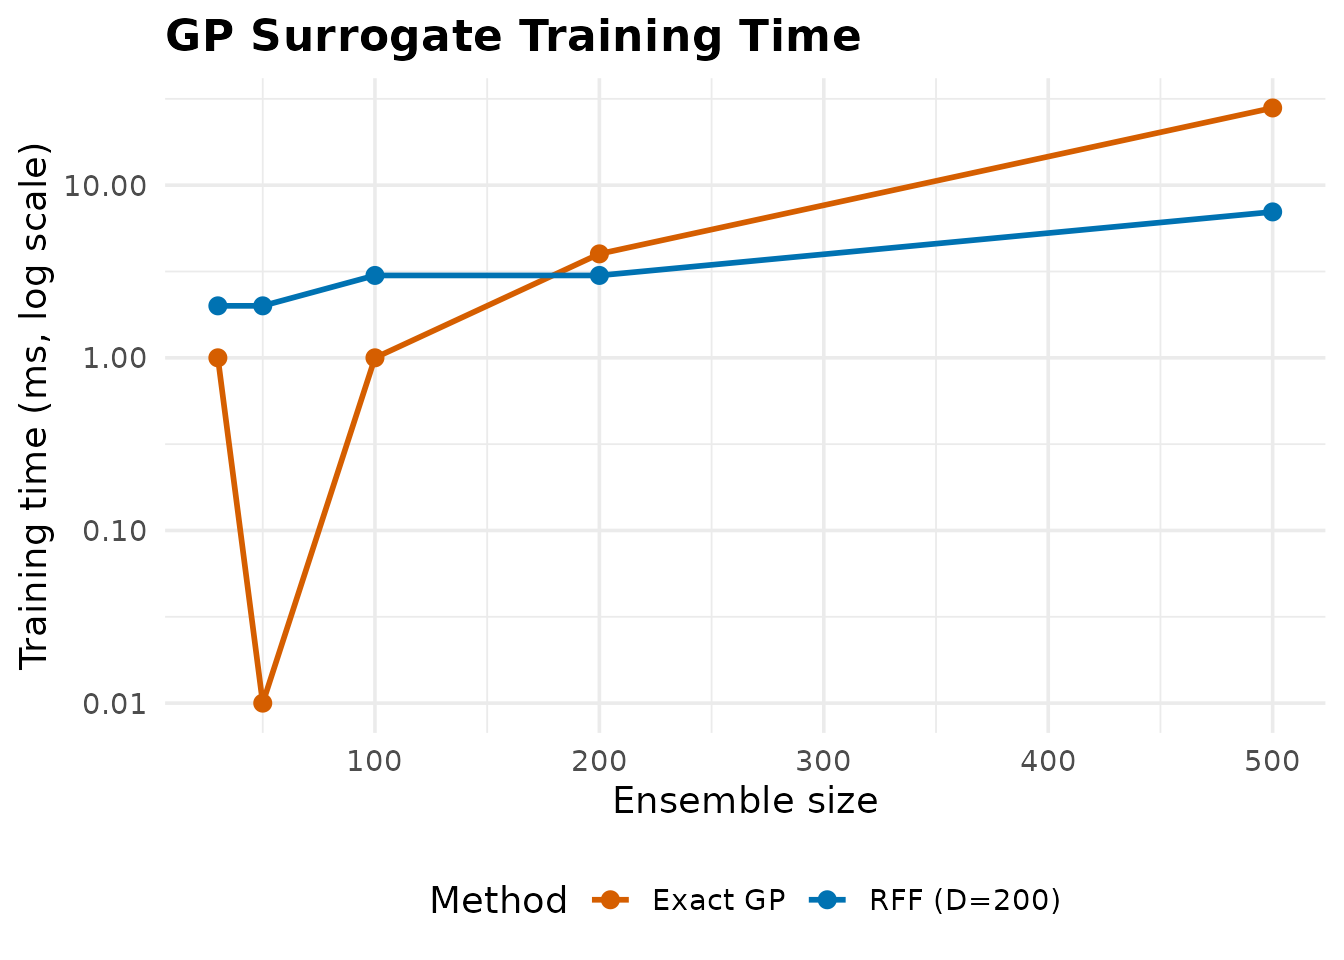
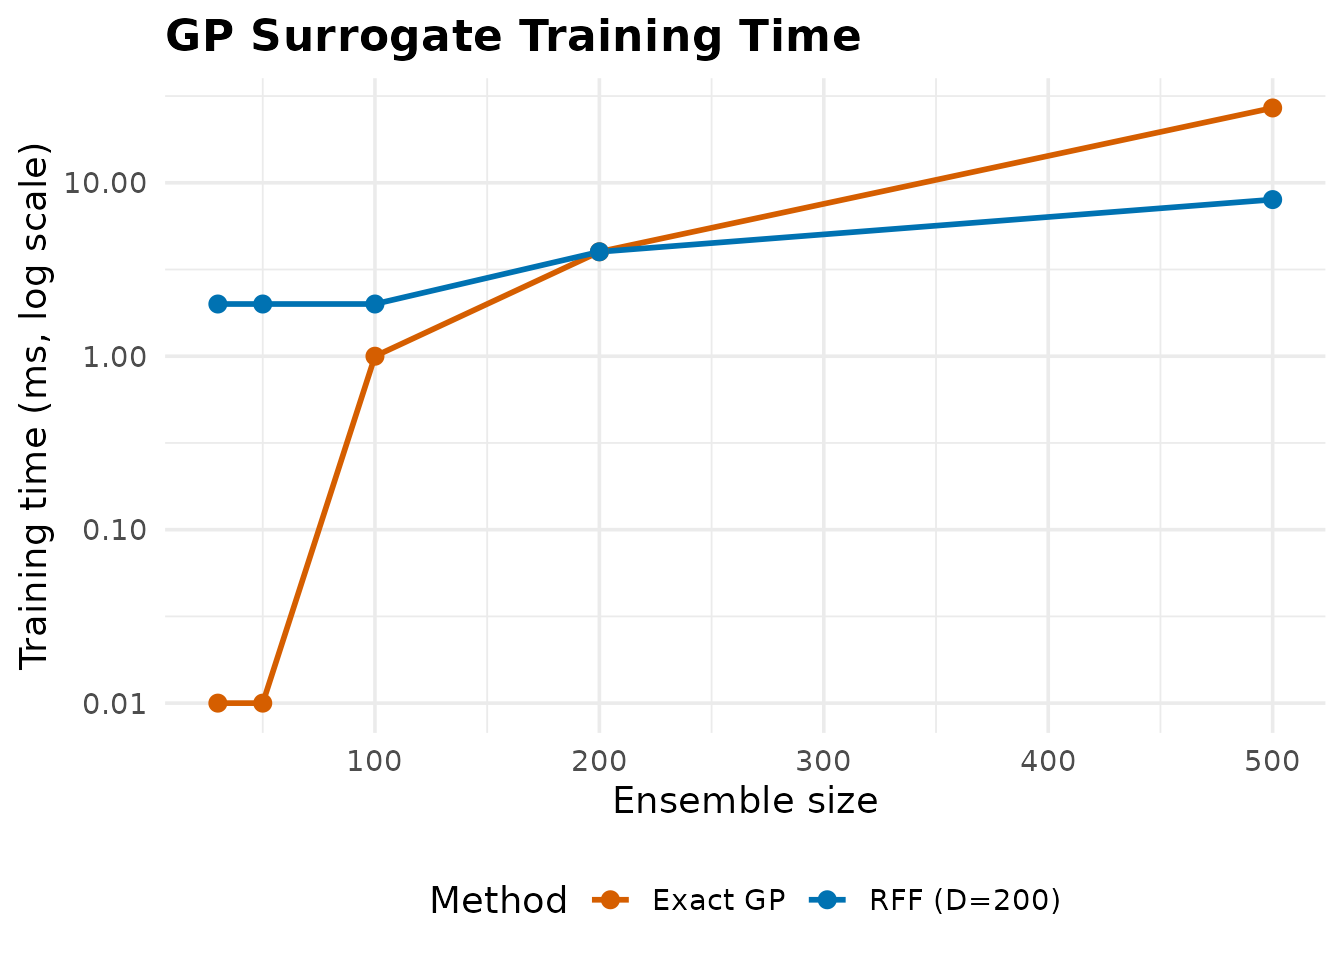
Deploying to gh-pages from @ max578/PESTO@7ccc674a539be3ea10d38143bee1905883ac77ff 🚀

diff --git a/articles/pestpp-comparison-and-simulation.html b/articles/pestpp-comparison-and-simulation.html
@@ -1246,7 +1246,7 @@ to a 2-D confined aquifer.</p>
 <span><span class="op">)</span></span>
 <span><span class="fu"><a href="https://rdrr.io/r/base/cat.html" class="external-link">cat</a></span><span class="op">(</span><span class="fu"><a href="https://rdrr.io/r/base/sprintf.html" class="external-link">sprintf</a></span><span class="op">(</span><span class="st">"Scenario B: %d iter, %d real, %d par, %d obs in %.2fs\n"</span>,</span>
 <span>            <span class="va">n_iter_B</span>, <span class="va">n_real_B</span>, <span class="va">n_par_B</span>, <span class="va">n_obs_B</span>, <span class="va">runtime_B</span><span class="op">)</span><span class="op">)</span></span>
-<span><span class="co">#&gt; Scenario B: 4 iter, 60 real, 100 par, 200 obs in 0.65s</span></span>
+<span><span class="co">#&gt; Scenario B: 4 iter, 60 real, 100 par, 200 obs in 0.66s</span></span>
 <span><span class="fu"><a href="https://rdrr.io/r/base/cat.html" class="external-link">cat</a></span><span class="op">(</span><span class="fu"><a href="https://rdrr.io/r/base/sprintf.html" class="external-link">sprintf</a></span><span class="op">(</span><span class="st">"Phi reduction: %.2e -&gt; %.2e  (factor %.1f)\n"</span>,</span>
 <span>            <span class="va">phi_B</span><span class="op">[</span><span class="fl">1L</span><span class="op">]</span>, <span class="va">phi_B</span><span class="op">[</span><span class="fu"><a href="https://rdrr.io/r/base/length.html" class="external-link">length</a></span><span class="op">(</span><span class="va">phi_B</span><span class="op">)</span><span class="op">]</span>, <span class="va">phi_B</span><span class="op">[</span><span class="fl">1L</span><span class="op">]</span> <span class="op">/</span> <span class="va">phi_B</span><span class="op">[</span><span class="fu"><a href="https://rdrr.io/r/base/length.html" class="external-link">length</a></span><span class="op">(</span><span class="va">phi_B</span><span class="op">)</span><span class="op">]</span><span class="op">)</span><span class="op">)</span></span>
 <span><span class="co">#&gt; Phi reduction: 1.69e+03 -&gt; 3.51e+02  (factor 4.8)</span></span>
@@ -1376,32 +1376,32 @@ the dense LAPACK algorithm reclaims the lead.</p>
 <tbody>
 <tr class="odd">
 <td align="right">5</td>
-<td align="right">2.716</td>
-<td align="right">40.057</td>
-<td align="right">14.75</td>
+<td align="right">2.691</td>
+<td align="right">39.450</td>
+<td align="right">14.66</td>
 </tr>
 <tr class="even">
 <td align="right">20</td>
-<td align="right">5.846</td>
-<td align="right">39.704</td>
-<td align="right">6.79</td>
+<td align="right">5.865</td>
+<td align="right">39.970</td>
+<td align="right">6.81</td>
 </tr>
 <tr class="odd">
 <td align="right">50</td>
-<td align="right">10.197</td>
-<td align="right">39.223</td>
-<td align="right">3.85</td>
+<td align="right">10.173</td>
+<td align="right">39.256</td>
+<td align="right">3.86</td>
 </tr>
 <tr class="even">
 <td align="right">100</td>
-<td align="right">34.382</td>
-<td align="right">39.205</td>
-<td align="right">1.14</td>
+<td align="right">34.374</td>
+<td align="right">39.379</td>
+<td align="right">1.15</td>
 </tr>
 <tr class="odd">
 <td align="right">180</td>
-<td align="right">70.323</td>
-<td align="right">39.323</td>
+<td align="right">70.115</td>
+<td align="right">39.419</td>
 <td align="right">0.56</td>
 </tr>
 </tbody>
@@ -1413,7 +1413,7 @@ dispatch can be audited:</p>
 <span><span class="va">acc_res</span>  <span class="op">&lt;-</span> <span class="fu"><a href="../reference/accelerate_svd.html">accelerate_svd</a></span><span class="op">(</span><span class="va">A_bench</span>, thin <span class="op">=</span> <span class="cn">TRUE</span><span class="op">)</span></span>
 <span><span class="fu"><a href="https://rdrr.io/r/base/cat.html" class="external-link">cat</a></span><span class="op">(</span><span class="st">"auto chose:    "</span>, <span class="va">auto_res</span><span class="op">$</span><span class="va">method_used</span>,</span>
 <span>    <span class="st">" in "</span>, <span class="fu"><a href="https://rdrr.io/r/base/Round.html" class="external-link">round</a></span><span class="op">(</span><span class="va">auto_res</span><span class="op">$</span><span class="va">time_ms</span>, <span class="fl">2</span><span class="op">)</span>, <span class="st">"ms\n"</span>, sep <span class="op">=</span> <span class="st">""</span><span class="op">)</span></span>
-<span><span class="co">#&gt; auto chose:    rsvd (Halko-Martinsson-Tropp) in 5.9ms</span></span>
+<span><span class="co">#&gt; auto chose:    rsvd (Halko-Martinsson-Tropp) in 5.84ms</span></span>
 <span><span class="fu"><a href="https://rdrr.io/r/base/cat.html" class="external-link">cat</a></span><span class="op">(</span><span class="st">"LAPACK direct: "</span>, <span class="fu"><a href="https://rdrr.io/r/base/Round.html" class="external-link">round</a></span><span class="op">(</span><span class="fu"><a href="https://rdrr.io/r/base/length.html" class="external-link">length</a></span><span class="op">(</span><span class="va">acc_res</span><span class="op">$</span><span class="va">d</span><span class="op">)</span>, <span class="fl">0</span><span class="op">)</span>,</span>
 <span>    <span class="st">" singular values returned\n"</span>, sep <span class="op">=</span> <span class="st">""</span><span class="op">)</span></span>
 <span><span class="co">#&gt; LAPACK direct: 200 singular values returned</span></span>

diff --git a/articles/getting-started.html b/articles/getting-started.html
@@ -284,8 +284,8 @@ the computational heart of the package:</p>
 <span>  <span class="fu"><a href="https://rdrr.io/r/base/print.html" class="external-link">print</a></span><span class="op">(</span><span class="va">bench</span><span class="op">)</span></span>
 <span><span class="op">}</span></span>
 <span><span class="co">#&gt; Unit: microseconds</span></span>
-<span><span class="co">#&gt;       expr     min       lq     mean   median      uq     max neval</span></span>
-<span><span class="co">#&gt;  PESTO_cpp 428.408 430.3925 439.0586 434.6905 442.751 549.425   100</span></span></code></pre></div>
+<span><span class="co">#&gt;       expr     min      lq     mean  median      uq     max neval</span></span>
+<span><span class="co">#&gt;  PESTO_cpp 428.269 429.922 438.8013 433.894 442.811 549.795   100</span></span></code></pre></div>
 </div>
 <div class="section level2">
 <h2 id="computing-phi-objective-function">Computing Phi (Objective Function)<a class="anchor" aria-label="anchor" href="#computing-phi-objective-function"></a>
@@ -365,7 +365,7 @@ speedups:</p>
 <span><span class="fu"><a href="https://rdrr.io/r/base/cat.html" class="external-link">cat</a></span><span class="op">(</span><span class="st">"Method:"</span>, <span class="va">res_auto</span><span class="op">$</span><span class="va">method_used</span>, <span class="st">"\n"</span><span class="op">)</span></span>
 <span><span class="co">#&gt; Method: rsvd (Halko-Martinsson-Tropp)</span></span>
 <span><span class="fu"><a href="https://rdrr.io/r/base/cat.html" class="external-link">cat</a></span><span class="op">(</span><span class="st">"Time:"</span>, <span class="fu"><a href="https://rdrr.io/r/base/Round.html" class="external-link">round</a></span><span class="op">(</span><span class="va">res_auto</span><span class="op">$</span><span class="va">time_ms</span>, <span class="fl">2</span><span class="op">)</span>, <span class="st">"ms\n"</span><span class="op">)</span></span>
-<span><span class="co">#&gt; Time: 17.43 ms</span></span>
+<span><span class="co">#&gt; Time: 17.4 ms</span></span>
 <span><span class="fu"><a href="https://rdrr.io/r/base/cat.html" class="external-link">cat</a></span><span class="op">(</span><span class="st">"Singular values (top 5):"</span>, <span class="fu"><a href="https://rdrr.io/r/base/Round.html" class="external-link">round</a></span><span class="op">(</span><span class="va">res_auto</span><span class="op">$</span><span class="va">d</span><span class="op">[</span><span class="fl">1</span><span class="op">:</span><span class="fl">5</span><span class="op">]</span>, <span class="fl">3</span><span class="op">)</span>, <span class="st">"\n"</span><span class="op">)</span></span>
 <span><span class="co">#&gt; Singular values (top 5): 50.643 50.283 49.956 49.689 49.454</span></span>
 <span></span>
@@ -400,9 +400,9 @@ diagnostics:</p>
 <span><span class="fu"><a href="https://rdrr.io/r/base/cat.html" class="external-link">cat</a></span><span class="op">(</span><span class="st">"SVD method:"</span>, <span class="va">result</span><span class="op">$</span><span class="va">svd_method</span>, <span class="st">"\n"</span><span class="op">)</span></span>
 <span><span class="co">#&gt; SVD method: LAPACK (platform-optimised)</span></span>
 <span><span class="fu"><a href="https://rdrr.io/r/base/cat.html" class="external-link">cat</a></span><span class="op">(</span><span class="st">"SVD time:"</span>, <span class="fu"><a href="https://rdrr.io/r/base/Round.html" class="external-link">round</a></span><span class="op">(</span><span class="va">result</span><span class="op">$</span><span class="va">svd_time_ms</span>, <span class="fl">2</span><span class="op">)</span>, <span class="st">"ms\n"</span><span class="op">)</span></span>
-<span><span class="co">#&gt; SVD time: 2.03 ms</span></span>
+<span><span class="co">#&gt; SVD time: 2.21 ms</span></span>
 <span><span class="fu"><a href="https://rdrr.io/r/base/cat.html" class="external-link">cat</a></span><span class="op">(</span><span class="st">"Total time:"</span>, <span class="fu"><a href="https://rdrr.io/r/base/Round.html" class="external-link">round</a></span><span class="op">(</span><span class="va">result</span><span class="op">$</span><span class="va">total_time_ms</span>, <span class="fl">2</span><span class="op">)</span>, <span class="st">"ms\n"</span><span class="op">)</span></span>
-<span><span class="co">#&gt; Total time: 2.46 ms</span></span>
+<span><span class="co">#&gt; Total time: 2.62 ms</span></span>
 <span><span class="fu"><a href="https://rdrr.io/r/base/cat.html" class="external-link">cat</a></span><span class="op">(</span><span class="st">"Singular values used:"</span>, <span class="va">result</span><span class="op">$</span><span class="va">singular_values_used</span>, <span class="st">"\n"</span><span class="op">)</span></span>
 <span><span class="co">#&gt; Singular values used: 50</span></span></code></pre></div>
 </div>

diff --git a/articles/ensemble-manifest.html b/articles/ensemble-manifest.html
@@ -117,17 +117,17 @@ guarantees, on every run.</p>
 <span>                 apsim_version <span class="op">=</span> <span class="cn">NA_character_</span><span class="op">)</span></span>
 <span><span class="fu"><a href="https://rdrr.io/r/base/print.html" class="external-link">print</a></span><span class="op">(</span><span class="va">m</span><span class="op">)</span></span>
 <span><span class="co">#&gt; &lt;pesto_ensemble_manifest&gt; schema 1.1.0</span></span>
-<span><span class="co">#&gt;   run_id        : ies_callback_20260628_040559_fe6542df</span></span>
+<span><span class="co">#&gt;   run_id        : ies_callback_20260628_075120_fe6542df</span></span>
 <span><span class="co">#&gt;   method        : ies_callback  (noptmax=4)</span></span>
 <span><span class="co">#&gt;   ensemble      : 60 realisations x 3 parameters | 6 observations</span></span>
 <span><span class="co">#&gt;   failure rate  : 0.00%</span></span>
 <span><span class="co">#&gt;   pesto version : 0.8.0.9000  apsim: NA</span></span>
-<span><span class="co">#&gt;   timestamp     : 2026-06-28T04:05:59+0000</span></span>
+<span><span class="co">#&gt;   timestamp     : 2026-06-28T07:51:20+0000</span></span>
 <span><span class="co">#&gt;   data hash     : sha256:e7b630ad06429b528fa6a57a4973894eb9bf2709a6a3ffeb01366ede48b78ed6</span></span></code></pre></div>
 <p>Slots are reachable via the standard S7 <code>@</code> accessor:</p>
 <div class="sourceCode" id="cb3"><pre class="downlit sourceCode r">
 <code class="sourceCode R"><span><span class="va">m</span><span class="op">@</span><span class="va">run_id</span></span>
-<span><span class="co">#&gt; [1] "ies_callback_20260628_040559_fe6542df"</span></span>
+<span><span class="co">#&gt; [1] "ies_callback_20260628_075120_fe6542df"</span></span>
 <span><span class="va">m</span><span class="op">@</span><span class="va">data_hash</span></span>
 <span><span class="co">#&gt; [1] "sha256:e7b630ad06429b528fa6a57a4973894eb9bf2709a6a3ffeb01366ede48b78ed6"</span></span>
 <span><span class="va">m</span><span class="op">@</span><span class="va">noptmax</span></span>
@@ -166,7 +166,7 @@ otherwise trip on formatter precision loss:</p>
 <code class="sourceCode R"><span><span class="fu"><a href="https://rdrr.io/r/base/cat.html" class="external-link">cat</a></span><span class="op">(</span><span class="fu"><a href="https://rdrr.io/r/base/paste.html" class="external-link">paste</a></span><span class="op">(</span><span class="fu"><a href="https://rdrr.io/r/base/readLines.html" class="external-link">readLines</a></span><span class="op">(</span><span class="fu"><a href="https://rdrr.io/r/base/file.path.html" class="external-link">file.path</a></span><span class="op">(</span><span class="va">dir</span>, <span class="st">"wagga_2026_run01.yaml"</span><span class="op">)</span><span class="op">)</span><span class="op">[</span><span class="fl">1</span><span class="op">:</span><span class="fl">14</span><span class="op">]</span>,</span>
 <span>          collapse <span class="op">=</span> <span class="st">"\n"</span><span class="op">)</span><span class="op">)</span></span>
 <span><span class="co">#&gt; schema_version: 1.1.0</span></span>
-<span><span class="co">#&gt; run_id: ies_callback_20260628_040559_fe6542df</span></span>
+<span><span class="co">#&gt; run_id: ies_callback_20260628_075120_fe6542df</span></span>
 <span><span class="co">#&gt; data_hash: sha256:e7b630ad06429b528fa6a57a4973894eb9bf2709a6a3ffeb01366ede48b78ed6</span></span>
 <span><span class="co">#&gt; format: rds</span></span>
 <span><span class="co">#&gt; integrity: verifiable</span></span>

diff --git a/index.html b/index.html
@@ -140,9 +140,12 @@
 <span>  <span class="st">"https://cloud.r-project.org"</span></span>
 <span><span class="op">)</span><span class="op">)</span></span></code></pre></div>
 <p>CRAN submission is in preparation.</p>
+<blockquote>
+<p><strong>Vignettes.</strong> GitHub source installs (<code>pak</code>, <code>install_github</code>) do not build vignettes by default, so <code>browseVignettes("PESTO")</code> will be empty. Install from r-universe (above) for pre-built vignettes, or add <code>build_vignettes = TRUE</code> to an <code>install_github()</code> call. All articles are also on the <a href="https://max578.github.io/PESTO/">package website</a>.</p>
+</blockquote>
 </div>
 <div class="section level2">
-<h2 id="ensemble-bayesian-inference-ies">Ensemble Bayesian inference (IES)<a class="anchor" aria-label="anchor" href="#ensemble-bayesian-inference-ies"></a>
+<h2 id="bayesian-inference-with-the-iterative-ensemble-smoother-ies">Bayesian inference with the Iterative Ensemble Smoother (IES)<a class="anchor" aria-label="anchor" href="#bayesian-inference-with-the-iterative-ensemble-smoother-ies"></a>
 </h2>
 <p>PESTO performs approximate Bayesian inference for parameter estimation. You specify a <strong>prior as a parameter ensemble</strong> – a matrix of draws encoding your prior belief about each parameter (rows are realisations, columns are parameters) – together with the observations and their error standard deviation. PESTO conditions the ensemble on the observations through the IES update and returns an approximate <strong>posterior ensemble</strong> with uncertainty diagnostics. Any R function mapping a parameter matrix to an observation matrix can be the forward model.</p>
 <div class="sourceCode" id="cb2"><pre class="downlit sourceCode r">
@@ -167,7 +170,7 @@
 <p>Optional convergence-based early stopping (<code>phi_tol</code>), covariance inflation (<code><a href="reference/pesto_inflation.html">pesto_inflation()</a></code>), and localisation (<code><a href="reference/pesto_localisation.html">pesto_localisation()</a></code>) are documented in <code><a href="reference/pesto_ies_callback.html">?pesto_ies_callback</a></code> and the <em>Getting started</em> vignette.</p>
 </div>
 <div class="section level2">
-<h2 id="coupling-to-a-simulator-apsim">Coupling to a simulator (APSIM)<a class="anchor" aria-label="anchor" href="#coupling-to-a-simulator-apsim"></a>
+<h2 id="coupling-to-apsim-and-other-simulators">Coupling to APSIM and other simulators<a class="anchor" aria-label="anchor" href="#coupling-to-apsim-and-other-simulators"></a>
 </h2>
 <p>The forward model above is a plain R function. To calibrate a process-based simulator, supply an adapter that maps a parameter vector to that simulator’s outputs. PESTO’s flagship partner is <strong>APSIM</strong>: <code><a href="reference/apsim_callback.html">apsim_callback()</a></code> turns an <code>.apsimx</code> model file plus a parameter map into exactly the forward-model callable the IES driver expects, running the ensemble in-process via <code>apsimx</code>.</p>
 <div class="sourceCode" id="cb3"><pre class="downlit sourceCode r">

diff --git a/reference/pesto_ies_result-methods.html b/reference/pesto_ies_result-methods.html
@@ -361,7 +361,7 @@ posterior parameter distributions (prior vs posterior) use <code><a href="plot_e
 <span class="r-out co"><span class="r-pr">#&gt;</span> </span>
 <span class="r-out co"><span class="r-pr">#&gt;</span> </span>
 <span class="r-out co"><span class="r-pr">#&gt;</span> $runtime_seconds</span>
-<span class="r-out co"><span class="r-pr">#&gt;</span> [1] 0.006</span>
+<span class="r-out co"><span class="r-pr">#&gt;</span> [1] 0.002</span>
 <span class="r-out co"><span class="r-pr">#&gt;</span> </span>
 <span class="r-out co"><span class="r-pr">#&gt;</span> $n_forward_evals</span>
 <span class="r-out co"><span class="r-pr">#&gt;</span> [1] 250</span>

diff --git a/articles/pestpp-comparison-and-simulation.md b/articles/pestpp-comparison-and-simulation.md
@@ -962,7 +962,7 @@ mda_upgrade <- ensemble_solution_mda(
 )
 cat(sprintf("Scenario B: %d iter, %d real, %d par, %d obs in %.2fs\n",
             n_iter_B, n_real_B, n_par_B, n_obs_B, runtime_B))
-#> Scenario B: 4 iter, 60 real, 100 par, 200 obs in 0.65s
+#> Scenario B: 4 iter, 60 real, 100 par, 200 obs in 0.66s
 cat(sprintf("Phi reduction: %.2e -> %.2e  (factor %.1f)\n",
             phi_B[1L], phi_B[length(phi_B)], phi_B[1L] / phi_B[length(phi_B)]))
 #> Phi reduction: 1.69e+03 -> 3.51e+02  (factor 4.8)
@@ -1092,11 +1092,11 @@ if (requireNamespace("microbenchmark", quietly = TRUE)) {
 
 | rank | rSVD_ms | LAPACK_ms | speedup_rSVD |
 |-----:|--------:|----------:|-------------:|
-|    5 |   2.716 |    40.057 |        14.75 |
-|   20 |   5.846 |    39.704 |         6.79 |
-|   50 |  10.197 |    39.223 |         3.85 |
-|  100 |  34.382 |    39.205 |         1.14 |
-|  180 |  70.323 |    39.323 |         0.56 |
+|    5 |   2.691 |    39.450 |        14.66 |
+|   20 |   5.865 |    39.970 |         6.81 |
+|   50 |  10.173 |    39.256 |         3.86 |
+|  100 |  34.374 |    39.379 |         1.15 |
+|  180 |  70.115 |    39.419 |         0.56 |
 
 rSVD vs LAPACK on a 400 x 200 matrix as k varies. {.table}
 
@@ -1109,7 +1109,7 @@ auto_res <- adaptive_svd(A_bench, k = 20L, method = "auto")
 acc_res  <- accelerate_svd(A_bench, thin = TRUE)
 cat("auto chose:    ", auto_res$method_used,
     " in ", round(auto_res$time_ms, 2), "ms\n", sep = "")
-#> auto chose:    rsvd (Halko-Martinsson-Tropp) in 5.9ms
+#> auto chose:    rsvd (Halko-Martinsson-Tropp) in 5.84ms
 cat("LAPACK direct: ", round(length(acc_res$d), 0),
     " singular values returned\n", sep = "")
 #> LAPACK direct: 200 singular values returned

diff --git a/articles/getting-started.md b/articles/getting-started.md
@@ -214,8 +214,8 @@ if (requireNamespace("microbenchmark", quietly = TRUE)) {
   print(bench)
 }
 #> Unit: microseconds
-#>       expr     min       lq     mean   median      uq     max neval
-#>  PESTO_cpp 428.408 430.3925 439.0586 434.6905 442.751 549.425   100
+#>       expr     min      lq     mean  median      uq     max neval
+#>  PESTO_cpp 428.269 429.922 438.8013 433.894 442.811 549.795   100
 ```
 
 ## Computing Phi (Objective Function)
@@ -302,7 +302,7 @@ res_auto <- adaptive_svd(A, k = 20L, method = "auto")
 cat("Method:", res_auto$method_used, "\n")
 #> Method: rsvd (Halko-Martinsson-Tropp)
 cat("Time:", round(res_auto$time_ms, 2), "ms\n")
-#> Time: 17.43 ms
+#> Time: 17.4 ms
 cat("Singular values (top 5):", round(res_auto$d[1:5], 3), "\n")
 #> Singular values (top 5): 50.643 50.283 49.956 49.689 49.454
 
@@ -340,9 +340,9 @@ result <- ensemble_solution_gpu(
 cat("SVD method:", result$svd_method, "\n")
 #> SVD method: LAPACK (platform-optimised)
 cat("SVD time:", round(result$svd_time_ms, 2), "ms\n")
-#> SVD time: 2.03 ms
+#> SVD time: 2.21 ms
 cat("Total time:", round(result$total_time_ms, 2), "ms\n")
-#> Total time: 2.46 ms
+#> Total time: 2.62 ms
 cat("Singular values used:", result$singular_values_used, "\n")
 #> Singular values used: 50
 ```

diff --git a/index.md b/index.md
@@ -83,7 +83,13 @@ install.packages("PESTO", repos = c(
 
 CRAN submission is in preparation.
 
-## Ensemble Bayesian inference (IES)
+> **Vignettes.** GitHub source installs (`pak`, `install_github`) do not
+> build vignettes by default, so `browseVignettes("PESTO")` will be
+> empty. Install from r-universe (above) for pre-built vignettes, or add
+> `build_vignettes = TRUE` to an `install_github()` call. All articles
+> are also on the [package website](https://max578.github.io/PESTO/).
+
+## Bayesian inference with the Iterative Ensemble Smoother (IES)
 
 PESTO performs approximate Bayesian inference for parameter estimation.
 You specify a **prior as a parameter ensemble** – a matrix of draws
@@ -125,7 +131,7 @@ are documented in
 [`?pesto_ies_callback`](https://max578.github.io/PESTO/reference/pesto_ies_callback.md)
 and the *Getting started* vignette.
 
-## Coupling to a simulator (APSIM)
+## Coupling to APSIM and other simulators
 
 The forward model above is a plain R function. To calibrate a
 process-based simulator, supply an adapter that maps a parameter vector

diff --git a/articles/ensemble-manifest.md b/articles/ensemble-manifest.md
@@ -54,12 +54,12 @@ m <- as_manifest(fit, seed = 20260516L,
                  apsim_version = NA_character_)
 print(m)
 #> <pesto_ensemble_manifest> schema 1.1.0
-#>   run_id        : ies_callback_20260628_040559_fe6542df
+#>   run_id        : ies_callback_20260628_075120_fe6542df
 #>   method        : ies_callback  (noptmax=4)
 #>   ensemble      : 60 realisations x 3 parameters | 6 observations
 #>   failure rate  : 0.00%
 #>   pesto version : 0.8.0.9000  apsim: NA
-#>   timestamp     : 2026-06-28T04:05:59+0000
+#>   timestamp     : 2026-06-28T07:51:20+0000
 #>   data hash     : sha256:e7b630ad06429b528fa6a57a4973894eb9bf2709a6a3ffeb01366ede48b78ed6
 ```
 
@@ -68,7 +68,7 @@ Slots are reachable via the standard S7 `@` accessor:
 ``` r
 
 m@run_id
-#> [1] "ies_callback_20260628_040559_fe6542df"
+#> [1] "ies_callback_20260628_075120_fe6542df"
 m@data_hash
 #> [1] "sha256:e7b630ad06429b528fa6a57a4973894eb9bf2709a6a3ffeb01366ede48b78ed6"
 m@noptmax
@@ -117,7 +117,7 @@ A peek at what the YAML actually looks like (truncated):
 cat(paste(readLines(file.path(dir, "wagga_2026_run01.yaml"))[1:14],
           collapse = "\n"))
 #> schema_version: 1.1.0
-#> run_id: ies_callback_20260628_040559_fe6542df
+#> run_id: ies_callback_20260628_075120_fe6542df
 #> data_hash: sha256:e7b630ad06429b528fa6a57a4973894eb9bf2709a6a3ffeb01366ede48b78ed6
 #> format: rds
 #> integrity: verifiable

diff --git a/reference/pesto_ies_result-methods.md b/reference/pesto_ies_result-methods.md
@@ -325,7 +325,7 @@ print(fit)
 #> 
 #> 
 #> $runtime_seconds
-#> [1] 0.006
+#> [1] 0.002
 #> 
 #> $n_forward_evals
 #> [1] 250